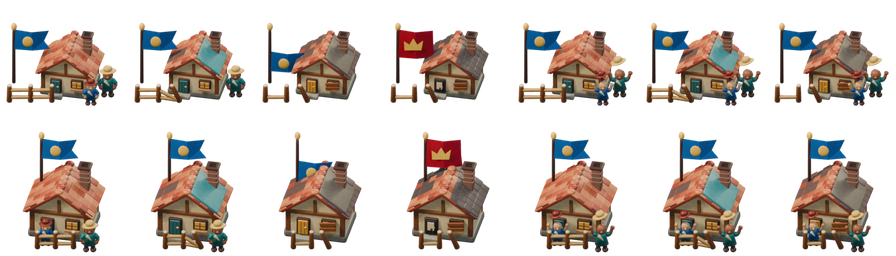
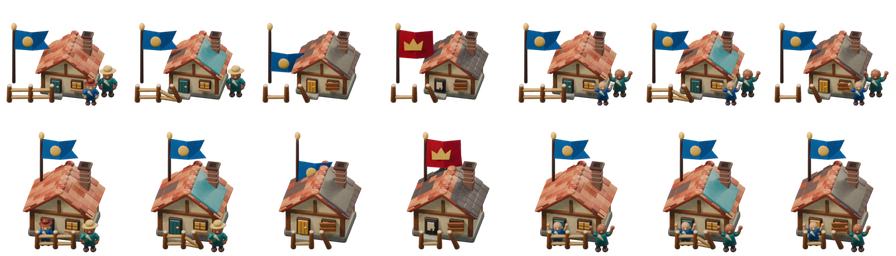
Cheer with the town or raise the royal standard

diff --git a/src/game/decor/town.ts b/src/game/decor/town.ts
@@ -1,6 +1,7 @@
 import type Phaser from 'phaser';
 import type { GameState, MapDef, Rect } from '../../sim';
 import type { Layout } from '../layout';
+import { endKind, type EndKind } from '../ui/endText';
 import { COLORS } from '../palette';
 import type { PaintedSkin } from '../skin/painted';
 import { CoinSacks } from './coinSacks';
@@ -23,6 +24,13 @@ export class Town {
   readonly bounds: Rect;
   private readonly image?: Phaser.GameObjects.Image;
   private readonly classic?: Graphics;
+  private readonly cheers: Graphics;
+  private hats: Phaser.GameObjects.Image[] = [];
+  private hoist?: Phaser.GameObjects.Image;
+  private outcome: EndKind | null = null;
+  private outcomeAt = 0;
+  private still?: boolean;
+  private bannerRaised = false;
   readonly sacks: CoinSacks;
   private readonly smoke: Graphics;
   private readonly reduced = window.matchMedia('(prefers-reduced-motion: reduce)');
@@ -31,7 +39,7 @@ export class Town {
   private lastSmokeTime = NaN;
   readonly smokeAlpha: number[] = [];
 
-  constructor(scene: Phaser.Scene, map: MapDef, private readonly layout: Layout, private readonly test: boolean, painted?: PaintedSkin) {
+  constructor(scene: Phaser.Scene, map: MapDef, private readonly layout: Layout, private readonly test: boolean, private readonly painted?: PaintedSkin) {
     this.bounds = townBounds(map, layout);
     const { x, y, width, height } = this.bounds;
     this.layer = scene.add.container();
@@ -45,34 +53,100 @@ export class Town {
     }
     this.smoke = scene.add.graphics().setName('town:smoke');
     this.layer.add(this.smoke);
+    this.cheers = scene.add.graphics().setName('town:cheer');
+    this.layer.add(this.cheers);
     this.sacks = new CoinSacks(scene, this.layer, painted);
   }
 
   snapshot() {
-    return { condition: this.condition, sacks: this.sacks.snapshot(), bounds: this.bounds };
+    return { condition: this.condition, outcome: this.outcome, sacks: this.sacks.snapshot(), bounds: this.bounds };
   }
 
   update(state: GameState, now: number): void {
     this.sacks.draw(this.bounds, this.layout.turned, now, this.reduced.matches);
     const condition = townCondition(state);
-    const changed = condition !== this.condition;
+    const outcome = endKind(state);
+    const still = this.test || this.reduced.matches;
+    const changed = condition !== this.condition || outcome !== this.outcome || still !== this.still;
+    this.still = still;
+    if (outcome !== this.outcome) this.outcomeAt = now;
+    this.outcome = outcome;
     if (changed) {
-      if (this.condition) this.changedAt = now;
+      if (this.condition && condition !== this.condition) this.changedAt = now;
       this.condition = condition;
       const frame = TOWN_CONDITIONS.indexOf(condition);
-      this.image?.setFrame(frame + (this.layout.turned ? 7 : 0));
+      const pose = outcome === 'won' && frame < 3 ? frame + 4 : frame;
+      if (this.image) this.painted?.pose(this.image, 'town', pose + (this.layout.turned ? 7 : 0));
+      this.cheers.clear();
+      for (const hat of this.hats) hat.setVisible(false);
+      this.hoist?.setVisible(false);
+      this.bannerRaised = false;
       this.drawClassic(frame);
     }
-    const t = this.test || this.reduced.matches ? 0 : now;
+    const elapsed = now - this.outcomeAt;
+    if (outcome === 'won' && (changed || !still)) this.drawCheer(still ? 0.42 : (elapsed % 1300) / 1300);
+    if (outcome === 'lost' && !still && !this.bannerRaised) this.raiseBanner(elapsed);
+    const t = still ? 0 : now;
     const age = now - this.changedAt;
     if (changed || t !== this.lastSmokeTime || this.changedAt !== -Infinity) {
       this.lastSmokeTime = t;
-      this.drawSmoke(condition, t, age);
+      this.drawSmoke(condition, t, outcome && still ? Infinity : age);
       if (age >= 360) this.changedAt = -Infinity;
     }
   }
 
-  private drawClassic(frame: number): void {
+  private raiseBanner(elapsed: number): void {
+    const lift = 12 * Math.max(0, 1 - elapsed / 650);
+    this.bannerRaised = lift === 0;
+    if (!this.image || !this.painted) {
+      this.drawClassic(3, lift);
+      return;
+    }
+    if (lift > 0) {
+      const frame = this.layout.turned ? 2 : 0;
+      this.painted.pose(this.image, 'royal-hoist', frame);
+      if (!this.hoist) {
+        this.hoist = this.painted.image('royal-hoist', frame + 1).setName('town:map');
+        this.layer.add(this.hoist);
+      }
+      this.hoist.setPosition(this.image.x, this.image.y + lift).setVisible(true);
+    } else if (this.hoist?.visible) {
+      this.hoist.setVisible(false);
+      this.painted.pose(this.image, 'town', this.layout.turned ? 10 : 3);
+    }
+  }
+
+  private drawCheer(phase: number): void {
+    const g = this.cheers.clear();
+    const { x, y, width, height } = this.bounds;
+    const base = y + height - 2;
+    if (this.image && this.painted) {
+      for (let i = 0; i < 2; i++) {
+        let hat = this.hats[i];
+        if (!hat) {
+          hat = this.painted.image('tossed-hat', (this.layout.turned ? 2 : 0) + i).setName('town:cheer');
+          this.layer.add(hat);
+          this.hats.push(hat);
+        }
+        const arc = this.test || this.reduced.matches ? 0 : Math.sin(Math.PI * ((phase + 0.35 * i) % 1));
+        hat.setPosition(this.image.x + arc * (i ? -2 : 2), this.image.y - arc * 8).setVisible(true);
+      }
+      return;
+    }
+    for (let i = 0; i < 2; i++) {
+      const p = (phase + 0.35 * i) % 1;
+      const cx = x + width * (0.24 + i * 0.49);
+      const hatY = base - 14 - 12 * Math.sin(Math.PI * p);
+      g.fillStyle(i ? 0x396682 : 0x497958).fillRect(cx - 2, base - 7, 4, 7);
+      g.fillStyle(i ? 0xd39d70 : 0xb5774e).fillCircle(cx, base - 9, 2.5);
+      g.lineStyle(1.8, 0x5d4433).lineBetween(cx - 1, base - 5, cx - 5, base - 10)
+          .lineBetween(cx + 1, base - 5, cx + 5, base - 10);
+      g.fillStyle(i ? 0x68402e : 0xce9350).fillEllipse(cx, hatY - 1, 5, 4);
+      g.fillStyle(i ? 0xc69a66 : 0xffce75).fillEllipse(cx, hatY + 1, 9, 2);
+    }
+  }
+
+  private drawClassic(frame: number, bannerDrop = 0): void {
     const g = this.classic;
     if (!g) return;
     const { x, y, width, height } = this.bounds;
@@ -85,7 +159,7 @@ export class Town {
     g.fillStyle(COLORS.cottageDoor).fillRect(cx - 3, base - 9, 6, 9);
     g.fillStyle(frame > 1 ? 0x503b32 : 0xffdd86).fillRect(cx - 9, roof + 3, 5, 5);
     const pole = x + width - 12;
-    const top = frame === 2 ? base - 19 : base - 34;
+    const top = (frame === 2 && this.outcome !== 'won' ? base - 19 : base - 34) + bannerDrop;
     g.fillStyle(0x604526).fillRect(pole - 1, base - 35, 2, 35);
     g.fillStyle(frame === 3 ? 0xa22b22 : 0x236579).fillRect(pole + 1, top, 10, frame === 3 ? 14 : 8);
     g.fillStyle(0xf3c254).fillCircle(pole + 6, top + 4, 2);

diff --git a/src/game/skin/loading.ts b/src/game/skin/loading.ts
@@ -5,7 +5,7 @@ import { waitForWorkerControl } from '../../sw/register';
 import type { PaintedDensity } from './look';
 
 const FRAME_COUNTS = {
-  cave: 4, cottage: 1, town: 14, sack: 1, oak: 4, spruce: 1, birch: 1, bush: 1, 'berry-bush': 1,
+  cave: 4, cottage: 1, town: 14, sack: 1, 'royal-hoist': 4, 'tossed-hat': 4, oak: 4, spruce: 1, birch: 1, bush: 1, 'berry-bush': 1,
   musketeer: 16, cannon: 16, 'tar-pit': 16, longbow: 16, mortar: 16, 'fire-pot': 16,
   goblin: 16, wolf: 16, troll: 16, harpy: 16, shieldbearer: 16, grumblefoot: 16, grumblemaw: 16,
   guard: 32, 'harpy-shadow': 1, arrow: 1, cannonball: 1, 'tar-glob': 1, 'mortar-shell': 1, flame: 1,

diff --git a/scripts/art/town.py b/scripts/art/town.py
@@ -189,7 +189,42 @@ def render_maps():
             (RAW / f"{arrangement}-chimney.json").write_text(json.dumps([chimney.x*256,(1-chimney.y)*256]))
             scene.render.filepath = str(RAW / f"{arrangement}-{label}.png")
             bpy.ops.render.render(write_still=True)
+            if i >= 4:
+                # Preserve the full silhouette for the common camera fit. The
+                # win scene moves each felt hat independently of its owner.
+                residents = [obj for obj in root.children if obj.name.startswith("Neighbour")]
+                hats = [[part for part in resident.children if part.name.startswith(
+                    ("Broad felt brim", "Pinched felt crown"))] for resident in residents]
+                for hat in hats:
+                    for part in hat:
+                        part.hide_render = True
+                scene.render.filepath = str(RAW / f"{arrangement}-{label}-bare.png")
+                bpy.ops.render.render(write_still=True)
+                if i == 4:
+                    for n,hat in enumerate(hats):
+                        for obj in root.children_recursive:
+                            if obj.type == "MESH":
+                                obj.hide_render = obj not in hat
+                        scene.render.filepath = str(RAW / f"{arrangement}-hat-{n}.png")
+                        bpy.ops.render.render(write_still=True)
             clear_model(root)
+
+
+def frame_fit(arrangement, density):
+    """Shared crop and placement for base towns and their animated parts."""
+    from PIL import Image
+    boxes = []
+    for pose in POSES:
+        with Image.open(RAW / f"{arrangement}-{pose}.png") as frame:
+            boxes.append(frame.getchannel("A").getbbox())
+    box = (min(b[0] for b in boxes), min(b[1] for b in boxes),
+           max(b[2] for b in boxes), max(b[3] for b in boxes))
+    width, height = box[2] - box[0], box[3] - box[1]
+    max_width, max_height = (42, 62) if arrangement == "portrait" else (62, 42)
+    factor = min(max_width / width, max_height / height) * density
+    size = (round(width * factor), round(height * factor))
+    cell = 64 * density
+    return box, factor, size, (cell - size[0]) // 2, (cell - size[1]) // 2
 
 
 def pack():
@@ -198,21 +233,26 @@ def pack():
         cell = 64*density
         atlas = Image.new("RGBA",(7*cell,2*cell))
         labels = []
+        tossed = Image.new("RGBA", (4*cell,cell))
+        hat_labels = []
         for row,arrangement in enumerate(("landscape","portrait")):
-            images = [Image.open(RAW/f"{arrangement}-{label}.png").convert("RGBA") for label in POSES]
-            boxes = [im.getchannel("A").getbbox() for im in images]
-            box = (min(b[0] for b in boxes),min(b[1] for b in boxes),
-                   max(b[2] for b in boxes),max(b[3] for b in boxes))
-            w,h = box[2]-box[0],box[3]-box[1]
-            maxw,maxh = (42,62) if row else (62,42)
-            factor = min(maxw/w,maxh/h)*density
-            size = (round(w*factor),round(h*factor))
-            ox,oy = (cell-size[0])//2,(cell-size[1])//2
+            images = [Image.open(RAW / f"{arrangement}-{label}{'-bare' if 'cheer' in label else ''}.png")
+                      .convert("RGBA") for label in POSES]
+            box, factor, size, ox, oy = frame_fit(arrangement, density)
             for i,(im,label) in enumerate(zip(images,POSES)):
                 atlas.paste(im.crop(box).resize(size,Image.Resampling.LANCZOS),(i*cell+ox,row*cell+oy))
                 labels.append(f"{arrangement}-{label}")
+            for hat in (0,1):
+                with Image.open(RAW / f"{arrangement}-hat-{hat}.png") as image:
+                    piece = image.convert("RGBA").crop(box).resize(size,Image.Resampling.LANCZOS)
+                    tossed.paste(piece, (len(hat_labels)*cell+ox,oy))
+                hat_labels.append(f"{arrangement}-hat-{hat}")
             cx,cy = json.loads((RAW/f"{arrangement}-chimney.json").read_text())
             print(f"{density}x {arrangement}: extent {size}, chimney at {round(ox+(cx-box[0])*factor)},{round(oy+(cy-box[1])*factor)}")
+        hat_path = OUT / f"tossed-hat-{density}x.png"
+        tossed.save(hat_path,optimize=True)
+        hat_path.with_suffix(".json").write_text(json.dumps(dict(frameSize=[cell,cell],anchor=[cell//2]*2,
+            columns=4,frameOrder=hat_labels), indent=2)+"\n")
         path = OUT / f"town-{density}x.png"
         atlas.save(path,optimize=True)
         path.with_suffix(".json").write_text(json.dumps(dict(frameSize=[cell,cell],anchor=[cell//2]*2,

diff --git a/scripts/art/royal_hoist.py b/scripts/art/royal_hoist.py
@@ -1,0 +1,64 @@
+"""Separate the royal cloth from its pole for the loss animation.
+
+Run headless Blender -P royal_hoist.py, then pack_painted.py shared. The
+normal town poses provide the very same camera crop as the static atlas.
+"""
+import json
+import subprocess
+import sys
+from pathlib import Path
+
+sys.dont_write_bytecode = True
+sys.path.insert(0,str(Path(__file__).resolve().parent))
+from town import OUT, POSES, RAW, clear_model, frame_fit, render_maps, studio, village
+
+
+def render_layers():
+    import bpy
+    import meadow as m
+    import render
+    if any(not (RAW / f"{view}-{pose}.png").exists()
+           for view in ("landscape","portrait") for pose in POSES):
+        render_maps()
+    scene = studio()
+    render.camera(scene,(0,0,.72),33,3.6,"painted",True)
+    scene.render.resolution_x = scene.render.resolution_y = 256
+    for arrangement in ("landscape","portrait"):
+        root = m.group("Town")
+        m.parent = root
+        village(3,False,arrangement == "portrait")
+        for part in ("bare","cloth"):
+            for ob in root.children_recursive:
+                if ob.type == "MESH":
+                    cloth = ob.name.startswith(("Royal standard","Gilt three-point"))
+                    ob.hide_render = cloth != (part == "cloth")
+            scene.render.filepath = str(RAW / f"hoist-{arrangement}-{part}.png")
+            bpy.ops.render.render(write_still=True)
+        clear_model(root)
+
+
+def pack():
+    from PIL import Image
+    for density in (1,2):
+        cell = 64*density
+        atlas = Image.new("RGBA",(4*cell,cell))
+        order = []
+        for arrangement in ("landscape","portrait"):
+            box, _, size, ox, oy = frame_fit(arrangement, density)
+            for part in ("bare","cloth"):
+                with Image.open(RAW / f"hoist-{arrangement}-{part}.png") as im:
+                    piece = im.convert("RGBA").crop(box).resize(size,Image.Resampling.LANCZOS)
+                    atlas.paste(piece,(cell*len(order)+ox,oy))
+                order.append(f"{arrangement}-{part}")
+        path = OUT / f"royal-hoist-{density}x.png"
+        atlas.save(path,optimize=True)
+        path.with_suffix(".json").write_text(json.dumps(dict(frameSize=[cell,cell],
+            anchor=[cell//2]*2,columns=4,frameOrder=order),indent=2)+"\n")
+
+
+if __name__ == "__main__":
+    if "bpy" in sys.modules:
+        render_layers()
+        subprocess.run(["python3",str(Path(__file__).resolve())],check=True)
+    else:
+        pack()

diff --git a/assets/MANIFEST.md b/assets/MANIFEST.md
@@ -211,3 +211,11 @@ the checker looks for it.
 | `assets/art-painted/sack-1x.json` | `scripts/art/town_sack.py` | Tarpit agents | MIT | Centered frame layout |
 | `assets/art-painted/sack-2x.png` | `scripts/art/town_sack.py` | Tarpit agents | MIT | Original painted buckskin purse with coin seal |
 | `assets/art-painted/sack-2x.json` | `scripts/art/town_sack.py` | Tarpit agents | MIT | Centered frame layout |
+| `assets/art-painted/royal-hoist-1x.png` | `scripts/art/royal_hoist.py` | Tarpit agents | MIT | Separate town and royal cloth for the banner hoist |
+| `assets/art-painted/royal-hoist-1x.json` | `scripts/art/royal_hoist.py` | Tarpit agents | MIT | Centered frame layout |
+| `assets/art-painted/royal-hoist-2x.png` | `scripts/art/royal_hoist.py` | Tarpit agents | MIT | Separate town and royal cloth for the banner hoist |
+| `assets/art-painted/royal-hoist-2x.json` | `scripts/art/royal_hoist.py` | Tarpit agents | MIT | Centered frame layout |
+| `assets/art-painted/tossed-hat-1x.png` | `scripts/art/town.py` | Tarpit agents | MIT | Separate painted felt hats tossed by the townsfolk |
+| `assets/art-painted/tossed-hat-1x.json` | `scripts/art/town.py` | Tarpit agents | MIT | Centered frame layout |
+| `assets/art-painted/tossed-hat-2x.png` | `scripts/art/town.py` | Tarpit agents | MIT | Separate painted felt hats tossed by the townsfolk |
+| `assets/art-painted/tossed-hat-2x.json` | `scripts/art/town.py` | Tarpit agents | MIT | Centered frame layout |

diff --git a/docs/DESIGN.md b/docs/DESIGN.md
@@ -1128,7 +1128,11 @@ A collector that reaches the road end carries a coin sack out of the
 town square. Its diameter is 10 + 4 × √(lives cost) game pixels and its
 flight lasts 720 ms. Reduced motion shows the purse at a fixed point on
 the route. Sacks draw below enemy health bars and remain inside the map.
-These drawings read the simulation without changing placement or combat.
+On a win, the people come outside with hats in the air and the blue flag
+at full height, even when the fence needs mending. On a loss, the red
+crown banner rises. The result appears immediately. Test mode and reduced
+motion hold the finished pose. These drawings read the simulation without
+changing placement or combat.
 
 ## Sound
 
